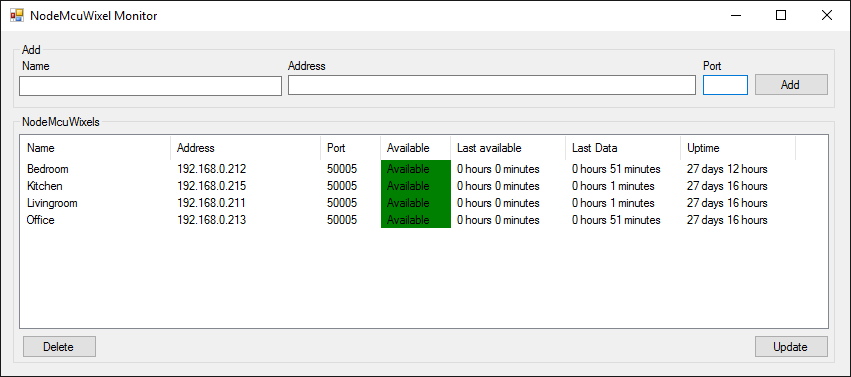
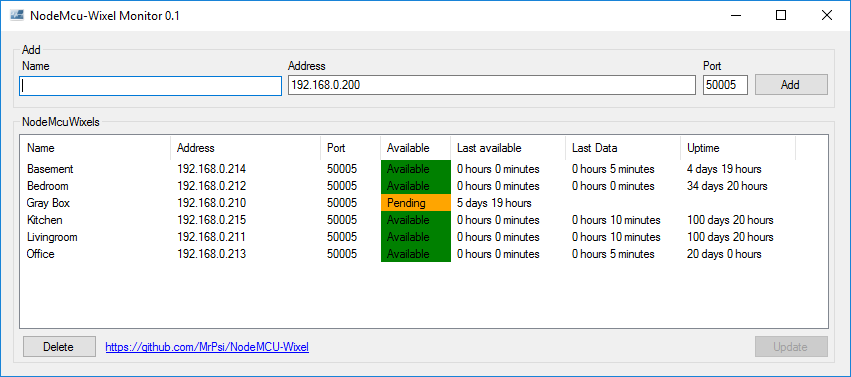
Small changes to behavior regarding disconnection, LED blink and physical wifi mode.
Changed disconnection behavior: When disconnected the node will blink
the led and try to reconnect until reconnected.
Changed default physical wifi mode from 802.11b to 802.11n.
Changed led blink behavior. See Readme.
Fixed some variable names.
Updated monitor image.

diff --git a/README.md b/README.md
@@ -63,6 +63,15 @@ See bottom for more images.
 13. Select "Start Sensor" in xDrip and wait for two readings, then enter a dual calibration.
 
 ## LED Indicator
+
+### Current LED behavior
+The LED will blink in the following cases.
+* Connecting or reconnecting - Slow blink (on 1 second, off 1 second, and so on).
+* Wrong password or other failure - Fast blink (On and off 4 times in one second).
+* Access point not found - Medium blink (on and off once each second).
+* Connected to access point - No blinking.
+
+### LED behavior prior to 2017-01-04
 The LED, if present, will blink when an error occurs.
 * Fast blink (on and off four times in one second): Unable to connect to access point. Wrong password, out of range, etc.
 * Slow blink (on and off once in two seconds): Lost connection to access point, restarting after 60 seconds if not connected again.
